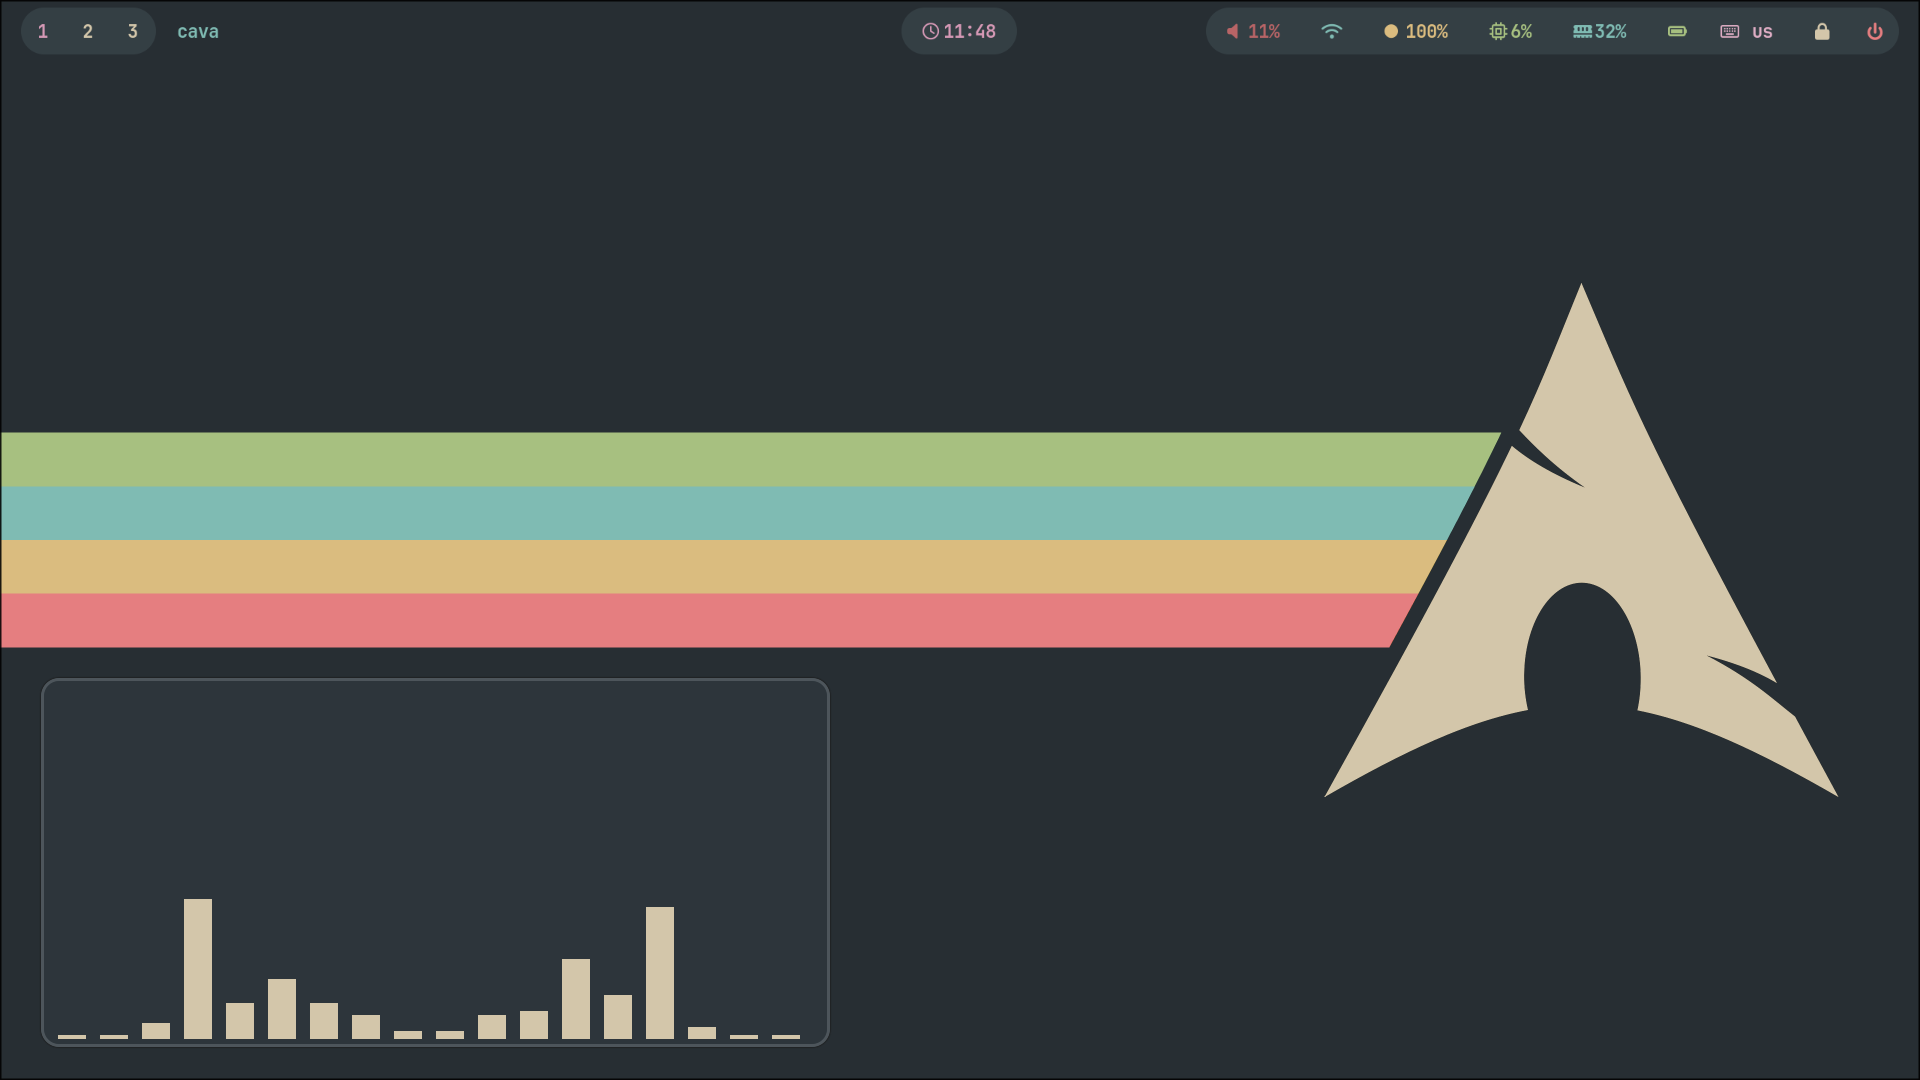
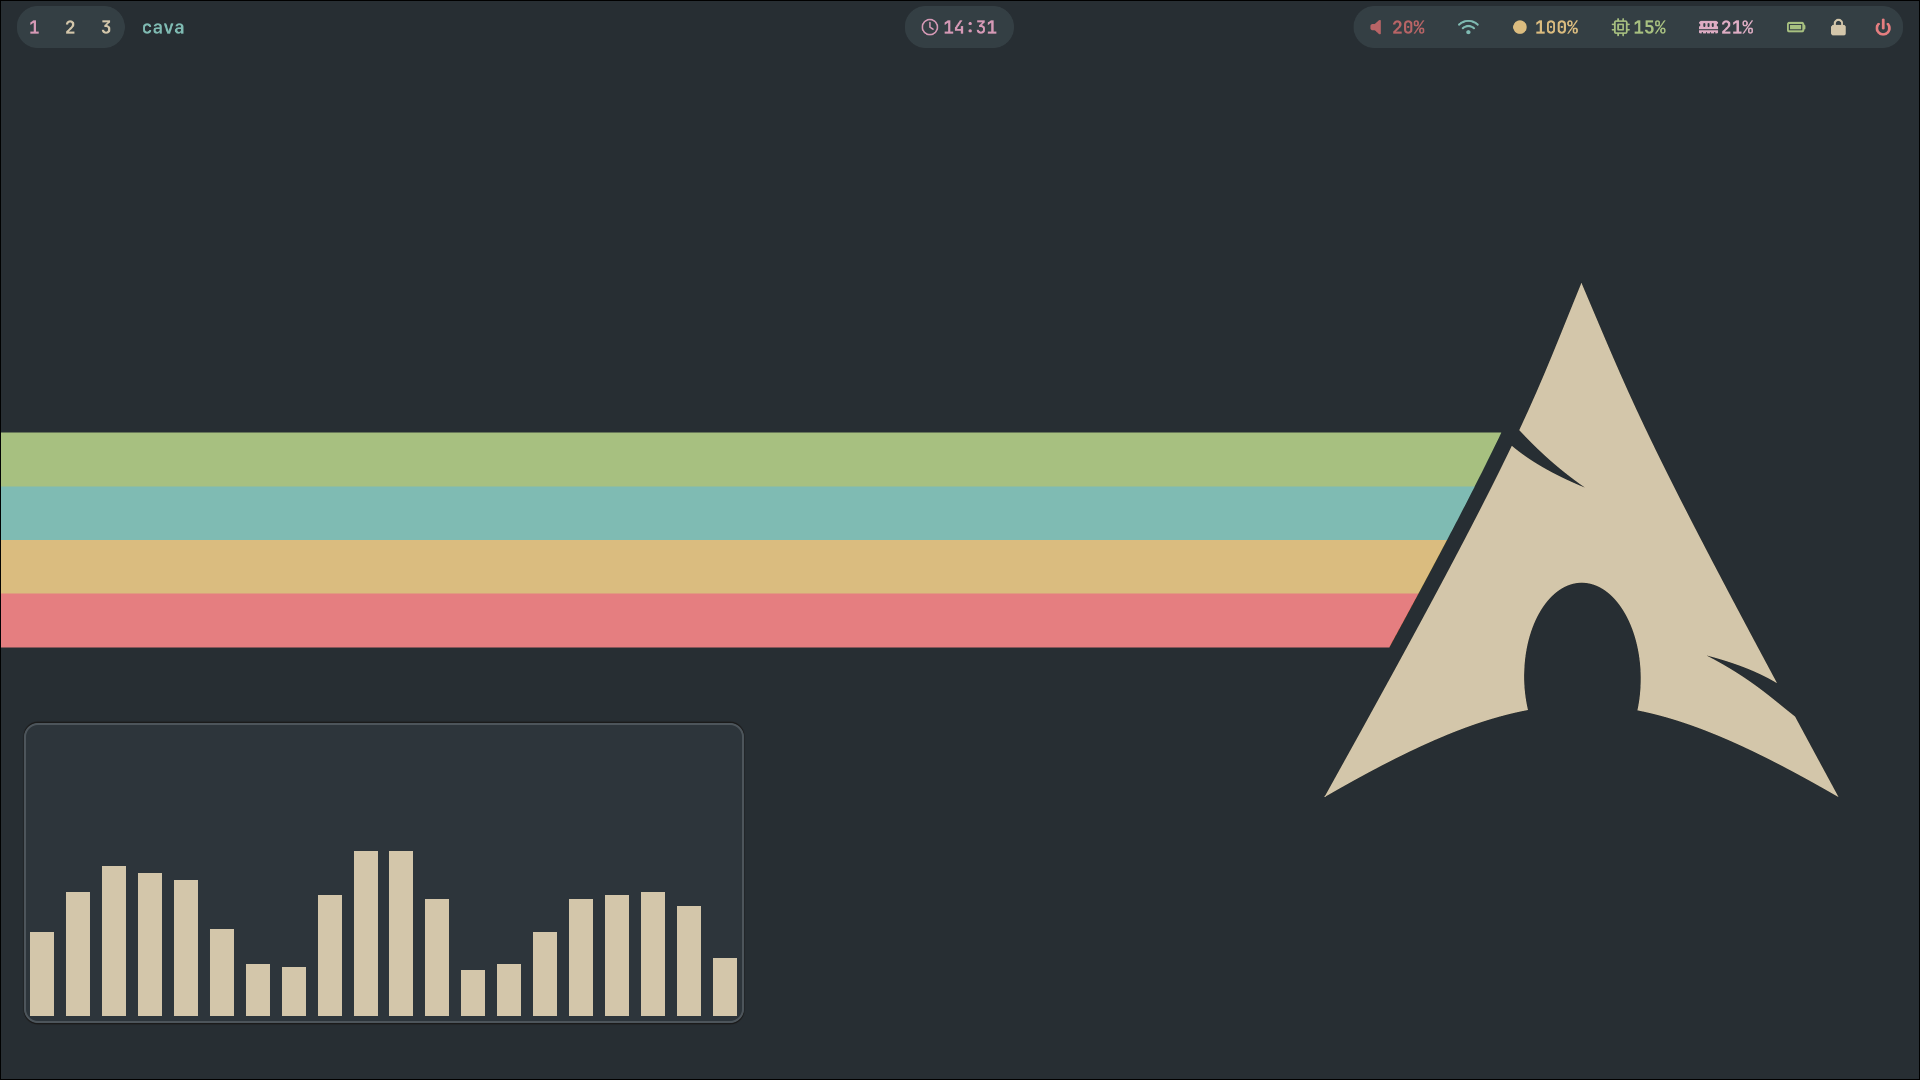
Update waybar config

diff --git a/waybar/style.css b/waybar/style.css
@@ -14,116 +14,111 @@ Waybar Config File by Arfan Zubi
 @import url("./theme.css");
 
 * {
-    font-family: "JetBrainsMono Nerd Font";
-    font-weight: bold;
-    font-size: 12px;
-    min-height: 0;
+  font-family: "JetBrainsMono Nerd Font";
+  font-weight: bold;
+  font-size: 15px;
+  min-height: 0;
 }
 
 window#waybar {
-    color: @text;
-    background: @mantle;
+  color: @text;
+  background: @mantle;
 }
 
 #workspaces,
 #workspaces button,
 #workspaces button.active,
 #workspaces button:hover {
-    border-radius: 1.5rem;
+  border-radius: 1.5rem;
 }
 
 #workspaces {
-    margin: 5px 0 5px 1rem;
-    background-color: #343f44;
+  margin: 5px 0 5px 1rem;
+  background-color: #343f44;
 }
 
 #workspaces button {
-    padding: 0.5rem;
-    color: @text;
+  padding: 0.5rem;
+  color: @text;
 }
 
 #workspaces button.active {
-    color: @mauve;
+  color: @mauve;
 }
 
 #workspaces button:hover {
-    color: @lavender;
-    background: @surface0;
-    border-color: @surface0;
+  color: @lavender;
+  background: @surface0;
+  border-color: @surface0;
 }
 
 #workspaces button.urgent {
-    color: @red;
+  color: @red;
 }
 
 #clock,
 #pulseaudio,
 #backlight,
 #battery,
-#language,
 #custom-lock,
 #custom-wifi,
 #cpu,
 #memory,
 #custom-power {
-    margin: 5px 0;
-    padding: 0.5rem 1rem;
-    background-color: #343f44;
+  margin: 5px 0;
+  padding: 0.5rem 1rem;
+  background-color: #343f44;
 }
 
 #window {
-    margin: 5px 0;
-    padding: 0.5rem 1rem;
-    color: @blue;
+  margin: 5px 0;
+  padding: 0.5rem 1rem;
+  color: @blue;
 }
 
 /* make window module transparent when no windows present */
 window#waybar.empty #window {
-    background-color: transparent;
+  background-color: transparent;
 }
 
 #clock {
-    color: @mauve;
-    border-radius: 1.5rem;
+  color: @mauve;
+  border-radius: 1.5rem;
 }
 
 #battery,
 #battery.charging {
-    color: @green;
+  color: @green;
 }
 
 #battery.warning:not(.charging) {
-    color: @red;
+  color: @red;
 }
 
 #pulseaudio {
-    margin-left: 1rem;
-    color: @maroon;
-    border-radius: 1.5rem 0 0 1.5rem;
+  margin-left: 1rem;
+  color: @maroon;
+  border-radius: 1.5rem 0 0 1.5rem;
 }
 
 #backlight {
-    color: @yellow;
-}
-
-#language {
-    color: @lavender;
+  color: @yellow;
 }
 
 #custom-wifi {
-    color: @blue;
+  color: @blue;
 }
 
 #cpu {
-   color: @green; 
+  color: @green;
 }
 
 #memory {
-    color: @sky;
+  color: @lavender;
 }
 
 #custom-power {
-    margin-right: 1rem;
-    color: @red;
-    border-radius: 0 1.5rem 1.5rem 0;
+  margin-right: 1rem;
+  color: @red;
+  border-radius: 0 1.5rem 1.5rem 0;
 }
